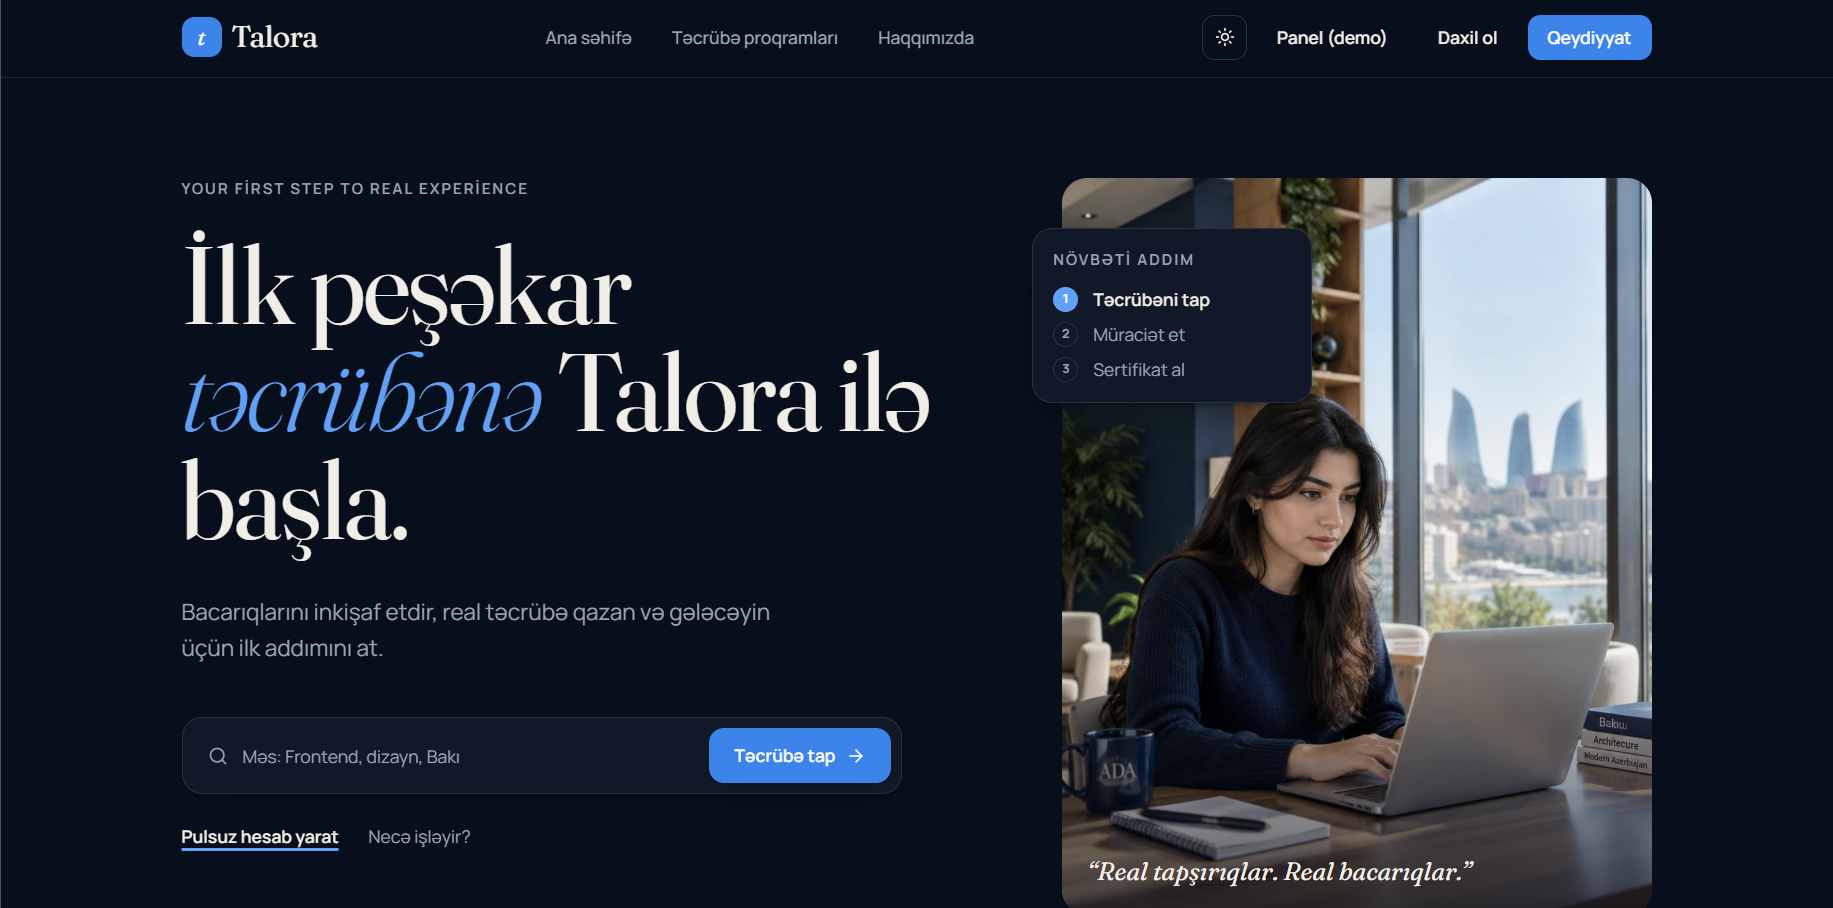
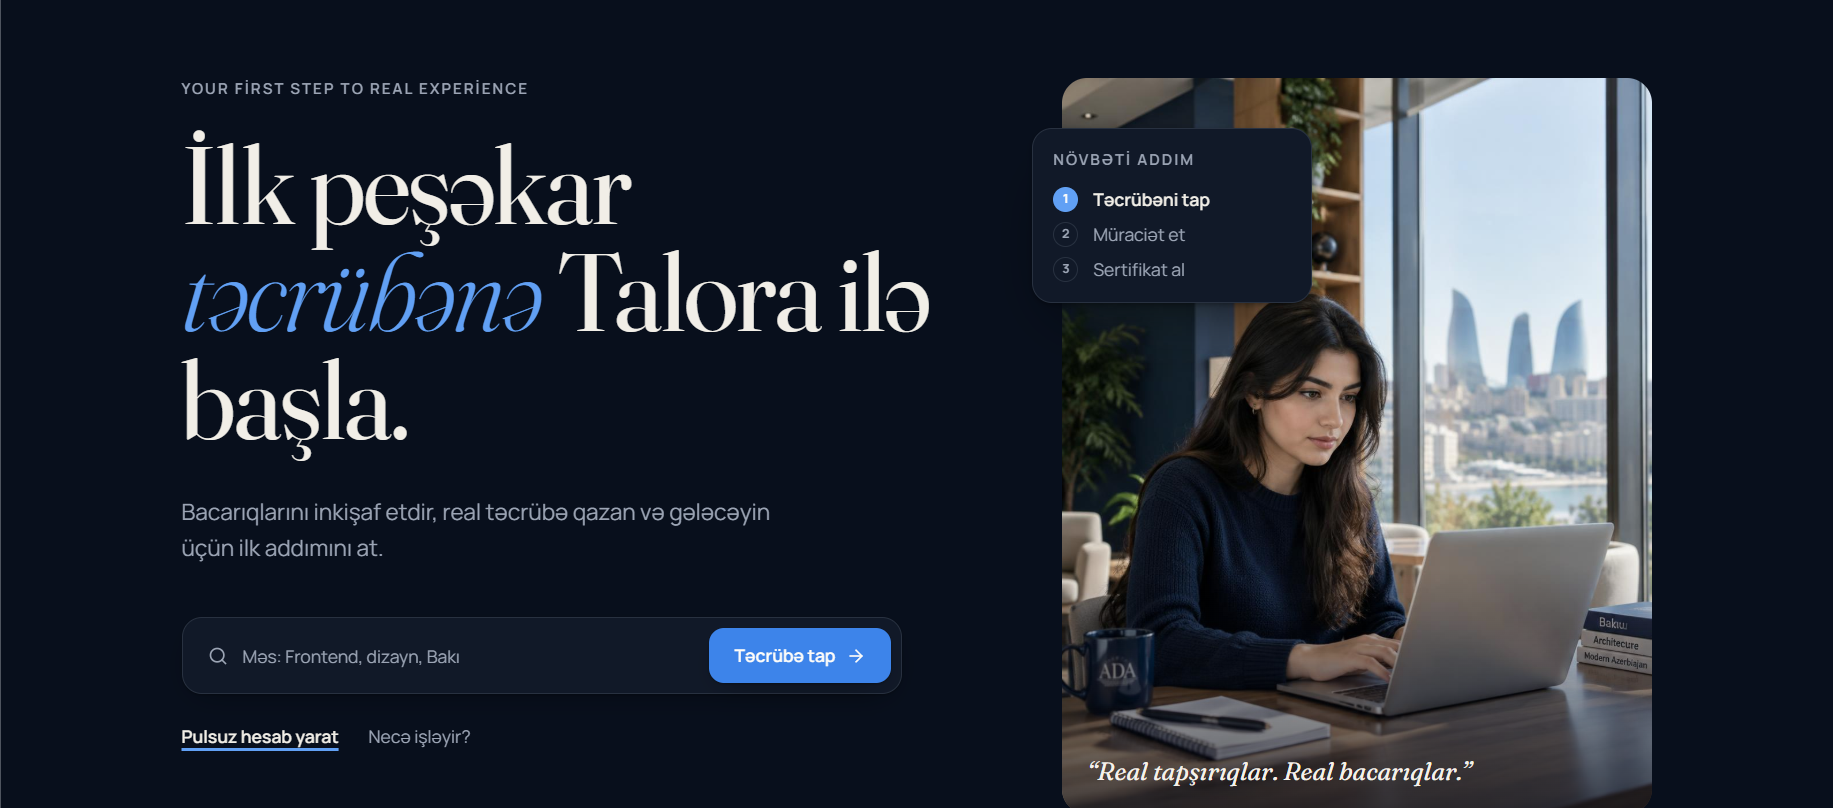
Talora.az add

diff --git a/styles.css b/styles.css
@@ -4,7 +4,7 @@
 *{box-sizing:border-box;margin:0;padding:0}html{scroll-behavior:smooth}body{min-width:320px;background:var(--olive);color:var(--ink);font-family:var(--sans);line-height:1.55;-webkit-font-smoothing:antialiased}a{color:inherit;text-decoration:none}img{display:block;max-width:100%}button,input,textarea{font:inherit}.wrap{width:min(1190px,calc(100% - 48px));margin:auto}.site-shell{width:min(1440px,100%);margin:auto;background:var(--paper);overflow:hidden}.skip-link{position:absolute;top:-100px;left:0;z-index:100;background:var(--ink);color:var(--paper);padding:12px 18px}.skip-link:focus{top:0}.site-header{border-bottom:1px solid var(--line);background:color-mix(in srgb,var(--paper) 92%,transparent);position:sticky;top:0;z-index:30;backdrop-filter:blur(16px)}.nav{height:84px;display:flex;align-items:center;gap:30px}.logo{display:flex;align-items:center;gap:10px;font-family:var(--mono);font-size:12px;font-weight:500;letter-spacing:-.03em}.logo-mark{display:grid;place-items:center;width:34px;height:34px;border:1px solid var(--ink);border-radius:50%;font-family:var(--sans);font-size:11px;font-weight:800}.navlinks{display:flex;gap:25px;margin-left:auto;font-size:12px}.navlinks a{color:var(--muted);transition:color .2s}.navlinks a:hover,.navlinks a[aria-current=page]{color:var(--ink)}.navlinks a[aria-current=page]{text-decoration:underline;text-underline-offset:5px}.nav-tools{display:flex;gap:7px;margin-left:8px}.theme-switch,.lang-switch{display:flex;gap:2px;padding:3px;border:1px solid var(--line);border-radius:99px}.theme-btn,.lang-btn{border:0;border-radius:99px;background:transparent;color:var(--muted);cursor:pointer;padding:5px 8px;font-size:10px}.theme-btn[aria-pressed=true],.lang-btn[aria-pressed=true],.theme-btn:hover,.lang-btn:hover{background:var(--ink);color:var(--paper)}
 .editorial-hero{padding:20px 0 90px}.hero-topline{display:flex;justify-content:space-between;align-items:center;border-top:1px solid var(--ink);padding:11px 0;color:var(--muted);font-family:var(--mono);font-size:10px;text-transform:uppercase;letter-spacing:.08em}.hero-availability{display:flex;gap:8px;align-items:center}.hero-availability i{width:7px;height:7px;border-radius:50%;background:#7b9a48}.hero-grid{display:grid;grid-template-columns:1.02fr .98fr;gap:7vw;align-items:center;padding-top:76px}.hero-kicker,.eyebrow{font-family:var(--mono);font-size:10px;letter-spacing:.08em;text-transform:uppercase;color:var(--muted)}.hero-kicker{margin-bottom:28px}.hero-copy h1{font-size:clamp(76px,12vw,170px);line-height:.80;letter-spacing:-.10em;font-weight:800}.hero-copy h1 em{font-style:normal;color:var(--olive);margin-left:7vw}.hero-intro{max-width:430px;margin-top:43px;color:var(--muted);font-size:15px;line-height:1.75}.hero-intro strong{color:var(--ink)}.hero-actions{display:flex;gap:10px;flex-wrap:wrap;margin-top:30px}.pill{display:inline-flex;align-items:center;gap:28px;padding:13px 18px;border-radius:99px;font-size:11px;font-weight:700;transition:transform .2s,background .2s}.pill b{font-size:15px;font-weight:400}.pill:hover{transform:translateY(-3px)}.pill-dark{background:var(--ink);color:var(--paper)}.pill-outline{border:1px solid var(--ink)}.pill-light{background:var(--paper);color:var(--ink)}.hero-socials{display:flex;gap:21px;margin-top:28px;font-family:var(--mono);font-size:10px;color:var(--muted)}.hero-socials a:hover,.text-link:hover,.view-all:hover{color:var(--olive)}.portrait-frame{position:relative;max-width:520px;justify-self:end}.portrait-frame:before{content:'';position:absolute;inset:20px -18px -18px 18px;border:1px solid var(--olive);z-index:0}.portrait-frame img{position:relative;z-index:1;width:100%;aspect-ratio: .88;object-fit:cover;object-position:center 32%;filter:grayscale(100%);mix-blend-mode:multiply}.portrait-frame:after{content:'';position:absolute;inset:0;z-index:2;background:linear-gradient(135deg,rgba(104,113,84,.12),transparent 42%,rgba(104,113,84,.15));pointer-events:none}.portrait-label{position:absolute;z-index:3;background:var(--paper);padding:8px 11px;font-family:var(--mono);font-size:9px;line-height:1.35;letter-spacing:.08em}.portrait-label-left{left:-30px;top:47px}.portrait-label-right{right:-38px;bottom:48px;text-align:right}.portrait-cross{position:absolute;z-index:3;color:var(--olive);font-size:25px;font-weight:300}.cross-one{right:-35px;top:12px}.cross-two{left:-40px;bottom:13px}
 .olive-band{display:grid;grid-template-columns:repeat(3,1fr) 1.6fr;gap:1px;background:var(--olive);color:#f4f4ec;padding:0}.band-stat,.band-copy{min-height:164px;padding:28px 27px;background:var(--olive)}.band-stat{border-right:1px solid rgba(255,255,255,.25);display:flex;flex-direction:column;justify-content:center}.band-stat strong{font-size:42px;line-height:1;font-weight:500}.band-stat span{margin-top:10px;font-family:var(--mono);font-size:9px;text-transform:uppercase;letter-spacing:.08em;opacity:.75}.band-copy{display:flex;align-items:center;gap:22px}.section-number{font-family:var(--mono);font-size:10px;opacity:.7}.band-copy h2{font-size:clamp(29px,4vw,48px);letter-spacing:-.06em;font-weight:600}.about-editorial{display:grid;grid-template-columns:1.45fr .75fr;gap:8vw;padding-top:130px;padding-bottom:140px}.about-heading h2{max-width:700px;margin-top:22px;font-size:clamp(30px,4.8vw,66px);line-height:1.03;letter-spacing:-.075em}.about-copy{align-self:end}.about-copy p{color:var(--muted);font-size:14px;line-height:1.8;margin-bottom:28px}.text-link,.view-all{font-size:11px;font-weight:700;text-decoration:underline;text-underline-offset:5px}
-.work-section{padding-bottom:135px}.section-intro{display:flex;justify-content:space-between;align-items:end;border-top:1px solid var(--ink);padding-top:17px;margin-bottom:36px}.section-intro h2,.service-title h2{font-size:clamp(38px,5.5vw,76px);line-height:.94;letter-spacing:-.08em;margin-top:20px}.section-intro>p{max-width:270px;color:var(--muted);font-size:13px;line-height:1.7}.editorial-projects{display:grid;grid-template-columns:1.4fr 1fr;gap:45px 28px}.editorial-project{display:block}.project-a{grid-row:span 2}.project-d{grid-column:2}.project-image{position:relative;overflow:hidden;background:var(--accent);aspect-ratio:1.38}.project-a .project-image{aspect-ratio:1.35}.project-d .project-image{aspect-ratio:1.75}.project-image img{width:100%;height:100%;object-fit:cover;transition:transform .5s}.editorial-project:hover img{transform:scale(1.04)}.project-image:after{content:'';position:absolute;inset:0;background:linear-gradient(160deg,transparent 60%,rgba(27,31,20,.35))}.project-image span{position:absolute;z-index:1;left:17px;top:15px;color:#fff;font-family:var(--mono);font-size:9px;letter-spacing:.08em}.project-row{display:flex;justify-content:space-between;align-items:center;border-bottom:1px solid var(--line);padding:16px 0 12px}.project-row h3{font-size:20px;letter-spacing:-.05em}.project-row b{font-size:20px;font-weight:400}.editorial-project p{color:var(--muted);font-size:12px;margin-top:10px}.view-all{display:inline-block;margin-top:42px}
+.work-section{padding-bottom:135px}.section-intro{display:flex;justify-content:space-between;align-items:end;border-top:1px solid var(--ink);padding-top:17px;margin-bottom:36px}.section-intro h2,.service-title h2{font-size:clamp(38px,5.5vw,76px);line-height:.94;letter-spacing:-.08em;margin-top:20px}.section-intro>p{max-width:270px;color:var(--muted);font-size:13px;line-height:1.7}.editorial-projects{display:grid;grid-template-columns:1.4fr 1fr;gap:45px 28px}.editorial-project{display:block}.project-a{grid-row:span 2}.project-image{position:relative;overflow:hidden;background:var(--accent);aspect-ratio:1.38}.project-a .project-image{aspect-ratio:1.35}.project-d .project-image{aspect-ratio:2.05}.project-image img{width:100%;height:100%;object-fit:cover;transition:transform .5s}.editorial-project:hover img{transform:scale(1.04)}.project-image:after{content:'';position:absolute;inset:0;background:linear-gradient(160deg,transparent 60%,rgba(27,31,20,.35))}.project-image span{position:absolute;z-index:1;left:17px;top:15px;color:#fff;font-family:var(--mono);font-size:9px;letter-spacing:.08em;text-shadow:0 1px 3px rgba(15,18,10,.85),0 2px 12px rgba(15,18,10,.7)}.project-d .project-image span{padding:5px 10px;border-radius:99px;background:rgba(15,18,10,.62);backdrop-filter:blur(6px)}.project-row{display:flex;justify-content:space-between;align-items:center;border-bottom:1px solid var(--line);padding:16px 0 12px}.project-row h3{font-size:20px;letter-spacing:-.05em}.project-row b{font-size:20px;font-weight:400}.editorial-project p{color:var(--muted);font-size:12px;margin-top:10px}.view-all{display:inline-block;margin-top:42px}
 .services-section{border-top:1px solid var(--ink);display:grid;grid-template-columns:.65fr 1.35fr;gap:8vw;padding-top:18px;padding-bottom:140px}.service-list{display:grid;grid-template-columns:1fr 1fr}.service-list>div{border-bottom:1px solid var(--line);padding:24px 0 28px}.service-list>div:nth-child(odd){padding-right:30px;border-right:1px solid var(--line)}.service-list>div:nth-child(even){padding-left:30px}.service-list span{font-family:var(--mono);font-size:10px;color:var(--olive)}.service-list h3{font-size:25px;letter-spacing:-.06em;margin:20px 0 6px}.service-list p{font-family:var(--mono);font-size:10px;color:var(--muted)}.contact-band{background:var(--olive);color:#f4f4ec;min-height:350px;padding:40px 6vw;display:flex;flex-direction:column;align-items:flex-start;justify-content:center}.contact-band .eyebrow{color:rgba(255,255,255,.7)}.contact-band h2{max-width:700px;margin:25px 0 30px;font-size:clamp(42px,6vw,85px);line-height:.95;letter-spacing:-.08em}.site-footer{background:var(--ink);color:var(--paper);padding:60px 0 22px}.footer-main{display:flex;justify-content:space-between;gap:30px}.footer-main .logo-mark{border-color:var(--paper)}.footer-main p{max-width:300px;color:var(--muted);font-size:12px;margin-top:22px}.amber{color:var(--olive)}.footer-links{display:flex;gap:25px;align-items:flex-start;font-family:var(--mono);font-size:10px}.footer-links a:hover{color:var(--olive)}.footer-bottom{border-top:1px solid rgba(255,255,255,.15);display:flex;justify-content:space-between;margin-top:60px;padding-top:18px;color:var(--muted);font-family:var(--mono);font-size:9px}.reveal{animation:rise .7s both}.reveal-delay{animation-delay:.12s}@keyframes rise{from{opacity:0;transform:translateY(16px)}to{opacity:1;transform:none}}:focus-visible{outline:2px solid var(--olive);outline-offset:4px}
 /* Shared legacy page support */
 .hero,.stats,.about-section,.stack-section,.featured-section,.contact-banner{max-width:1190px}.project-card,.stack-group,.stats{border-color:var(--line)}.site-footer a{color:inherit}
@@ -72,5 +72,5 @@ legend{font-family:var(--mono);font-size:15px;font-weight:600;letter-spacing:-.0
 .social-link svg{width:16px;height:16px}
 .social-link:hover{background:var(--paper);color:var(--ink);border-color:var(--paper);transform:translateY(-2px)}
 @media(max-width:800px){.contact-grid{grid-template-columns:1fr;gap:34px}.footer-grid{grid-template-columns:1fr 1fr;gap:30px}.proj-grid{grid-template-columns:1fr;gap:18px;padding-bottom:95px}.page-head{padding:52px 0 42px}}
-@media(max-width:470px){.footer-grid{grid-template-columns:1fr}.nav-right{flex-wrap:wrap;gap:9px}.status-dot{top:70px;right:16px}}@media(max-width:800px){.wrap{width:min(100% - 30px,620px)}.nav{height:70px;gap:12px}.logo{font-size:10px}.navlinks{gap:11px;font-size:10px}.nav-tools{margin-left:0}.hero-grid,.about-editorial,.services-section{grid-template-columns:1fr}.editorial-hero{padding-bottom:65px}.hero-grid{padding-top:48px;gap:60px}.hero-copy h1{font-size:clamp(70px,20vw,130px)}.hero-copy h1 em{margin-left:12vw}.portrait-frame{width:calc(100% - 36px);margin:0 18px;justify-self:center}.olive-band{grid-template-columns:1fr 1fr}.band-copy{grid-column:span 2;min-height:120px}.about-editorial{padding:85px 0}.about-copy{margin-top:20px}.section-intro{display:block}.section-intro>p{margin-top:22px}.editorial-projects{grid-template-columns:1fr;gap:45px}.project-a{grid-row:auto}.project-d{grid-column:auto}.project-image,.project-a .project-image{aspect-ratio:1.45}.services-section{padding-bottom:85px}.service-title{margin-bottom:30px}.contact-band{min-height:300px}.footer-main,.footer-bottom{display:block}.footer-links{margin-top:35px;flex-wrap:wrap}.footer-bottom span+span{display:block;margin-top:10px}}
+@media(max-width:470px){.footer-grid{grid-template-columns:1fr}.nav-right{flex-wrap:wrap;gap:9px}.status-dot{top:70px;right:16px}}@media(max-width:800px){.wrap{width:min(100% - 30px,620px)}.nav{height:70px;gap:12px}.logo{font-size:10px}.navlinks{gap:11px;font-size:10px}.nav-tools{margin-left:0}.hero-grid,.about-editorial,.services-section{grid-template-columns:1fr}.editorial-hero{padding-bottom:65px}.hero-grid{padding-top:48px;gap:60px}.hero-copy h1{font-size:clamp(70px,20vw,130px)}.hero-copy h1 em{margin-left:12vw}.portrait-frame{width:calc(100% - 36px);margin:0 18px;justify-self:center}.olive-band{grid-template-columns:1fr 1fr}.band-copy{grid-column:span 2;min-height:120px}.about-editorial{padding:85px 0}.about-copy{margin-top:20px}.section-intro{display:block}.section-intro>p{margin-top:22px}.editorial-projects{grid-template-columns:1fr;gap:45px}.project-a{grid-row:auto}.project-image,.project-a .project-image{aspect-ratio:1.45}.project-d .project-image{aspect-ratio:2.05}.services-section{padding-bottom:85px}.service-title{margin-bottom:30px}.contact-band{min-height:300px}.footer-main,.footer-bottom{display:block}.footer-links{margin-top:35px;flex-wrap:wrap}.footer-bottom span+span{display:block;margin-top:10px}}
 @media(max-width:470px){.navlinks a:first-child{display:none}.nav{justify-content:space-between}.hero-topline span:last-child{display:none}.hero-topline{font-size:8px}.portrait-label-left{left:-12px}.portrait-label-right{right:-12px}.band-stat,.band-copy{padding:22px 17px}.band-stat strong{font-size:32px}.band-stat span{font-size:8px}.service-list{grid-template-columns:1fr}.service-list>div:nth-child(odd){padding-right:0;border-right:0}.service-list>div:nth-child(even){padding-left:0}.footer-links{gap:15px}}
